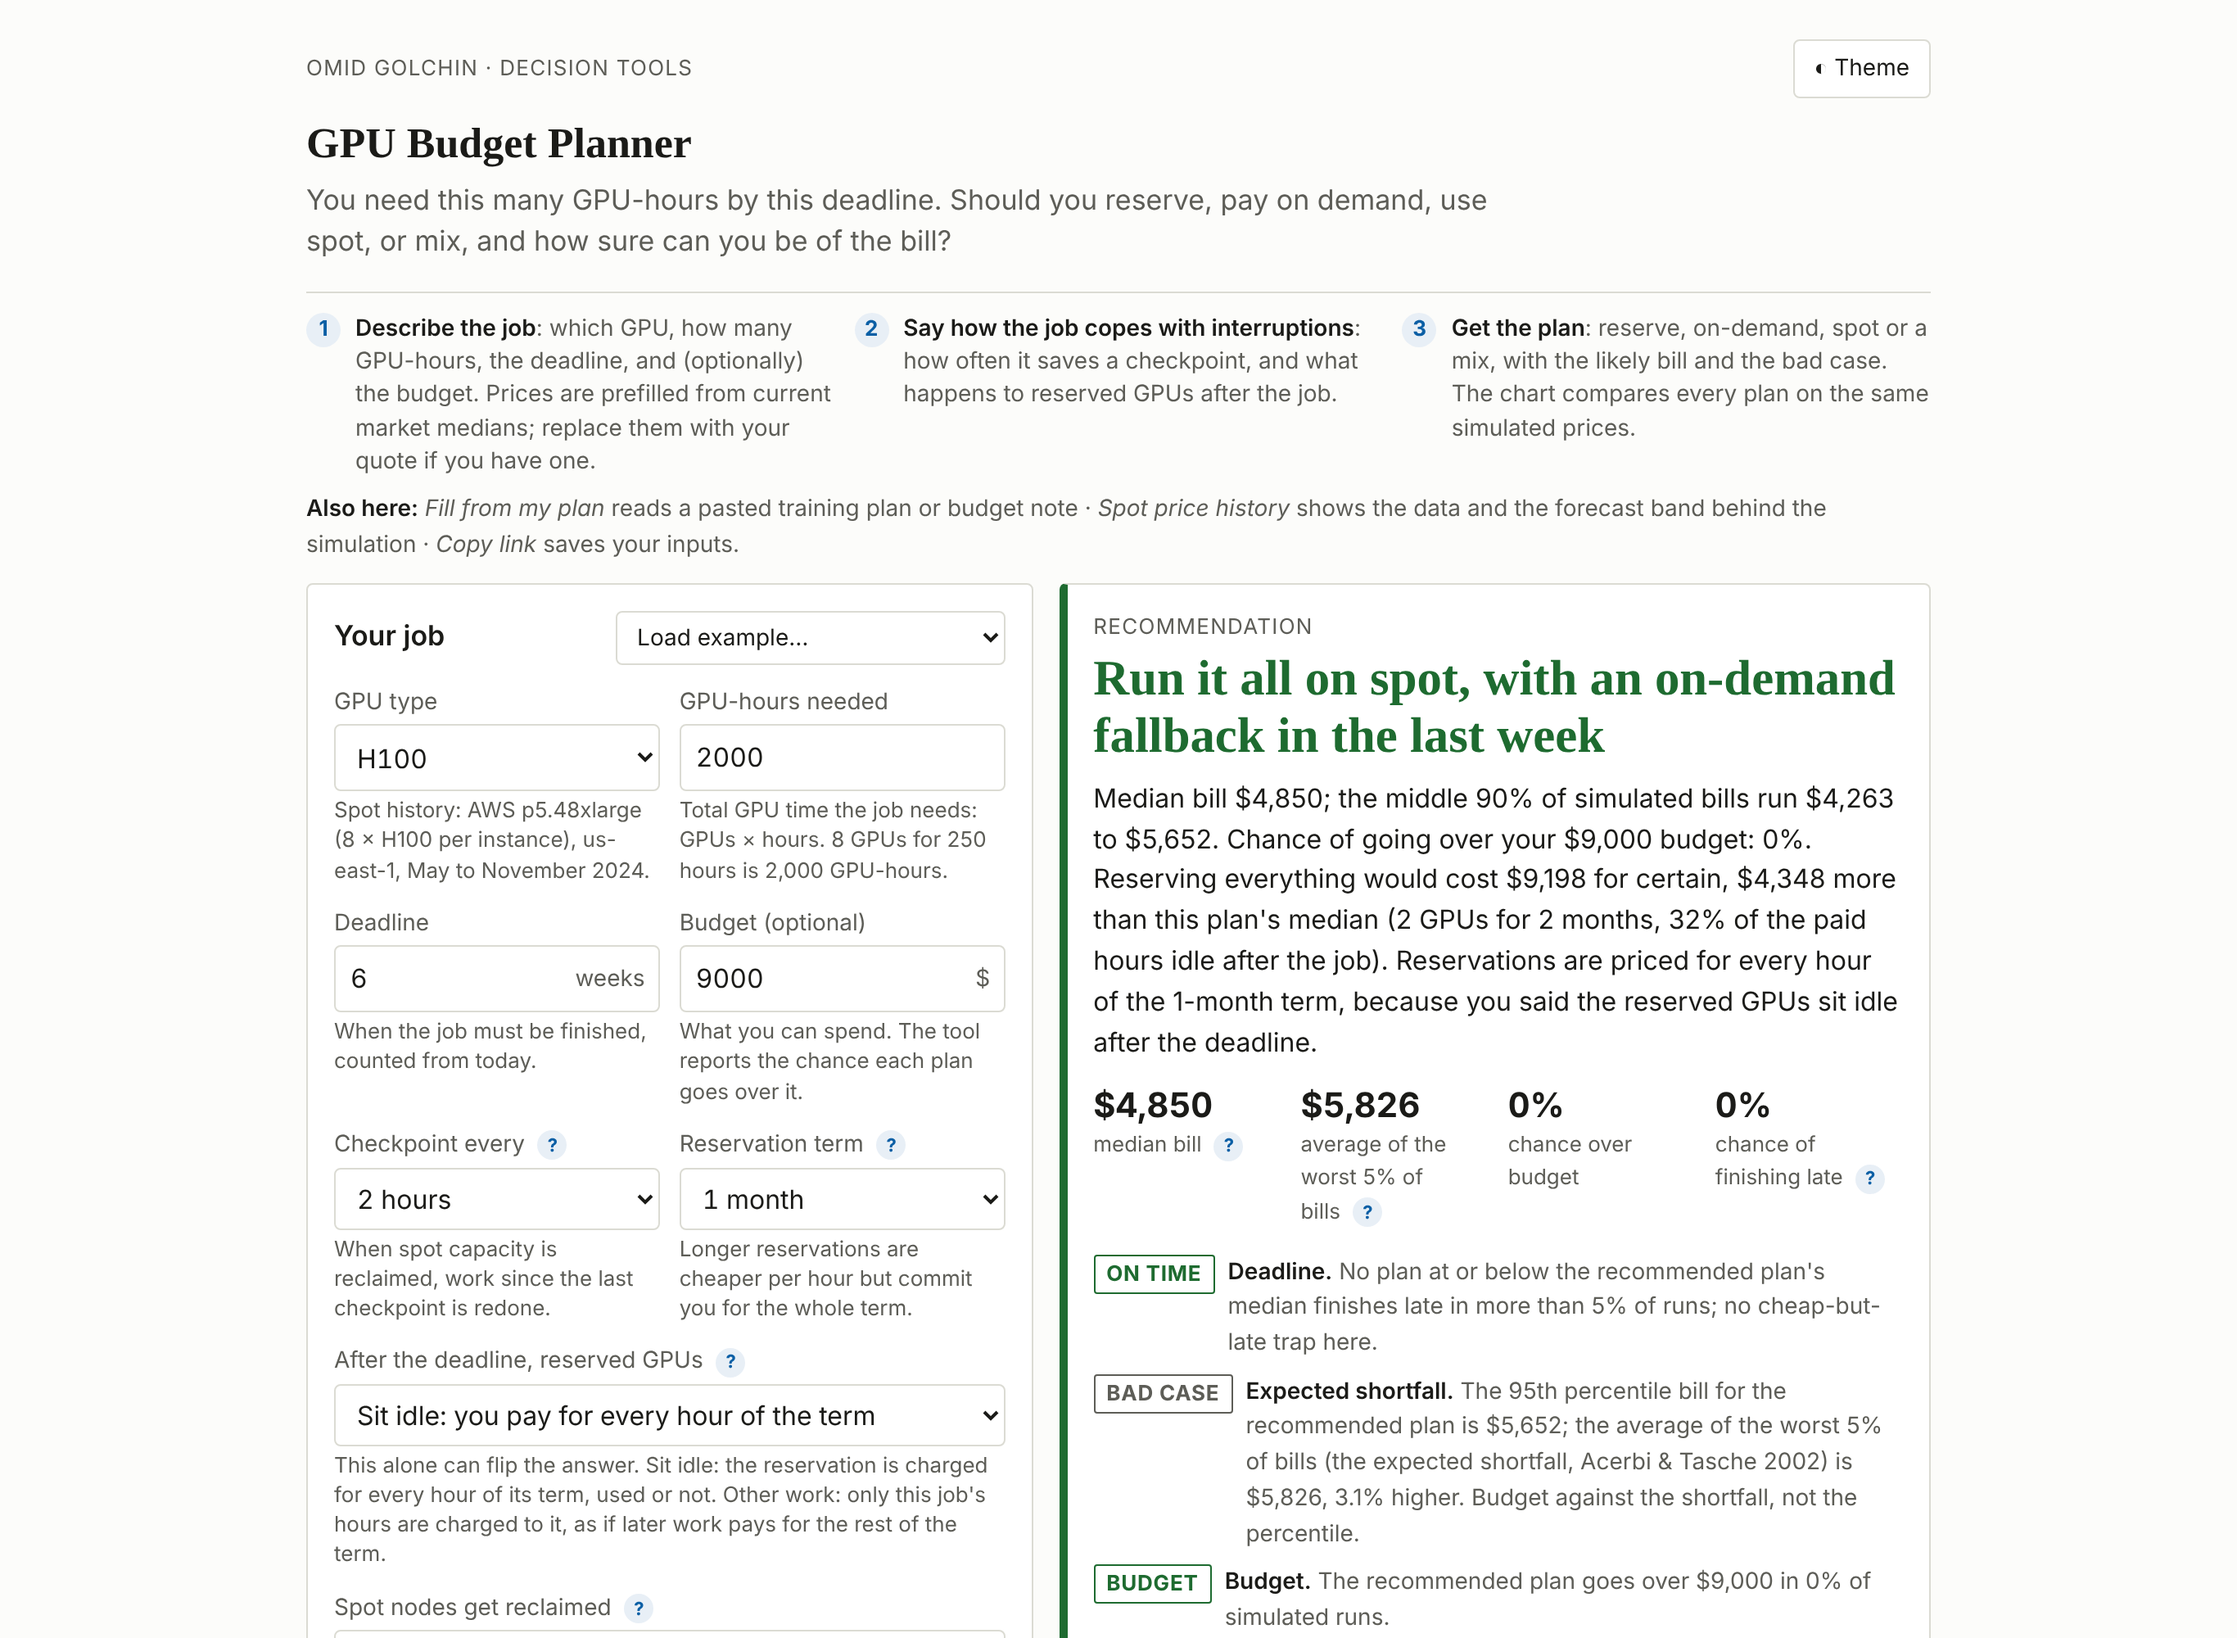
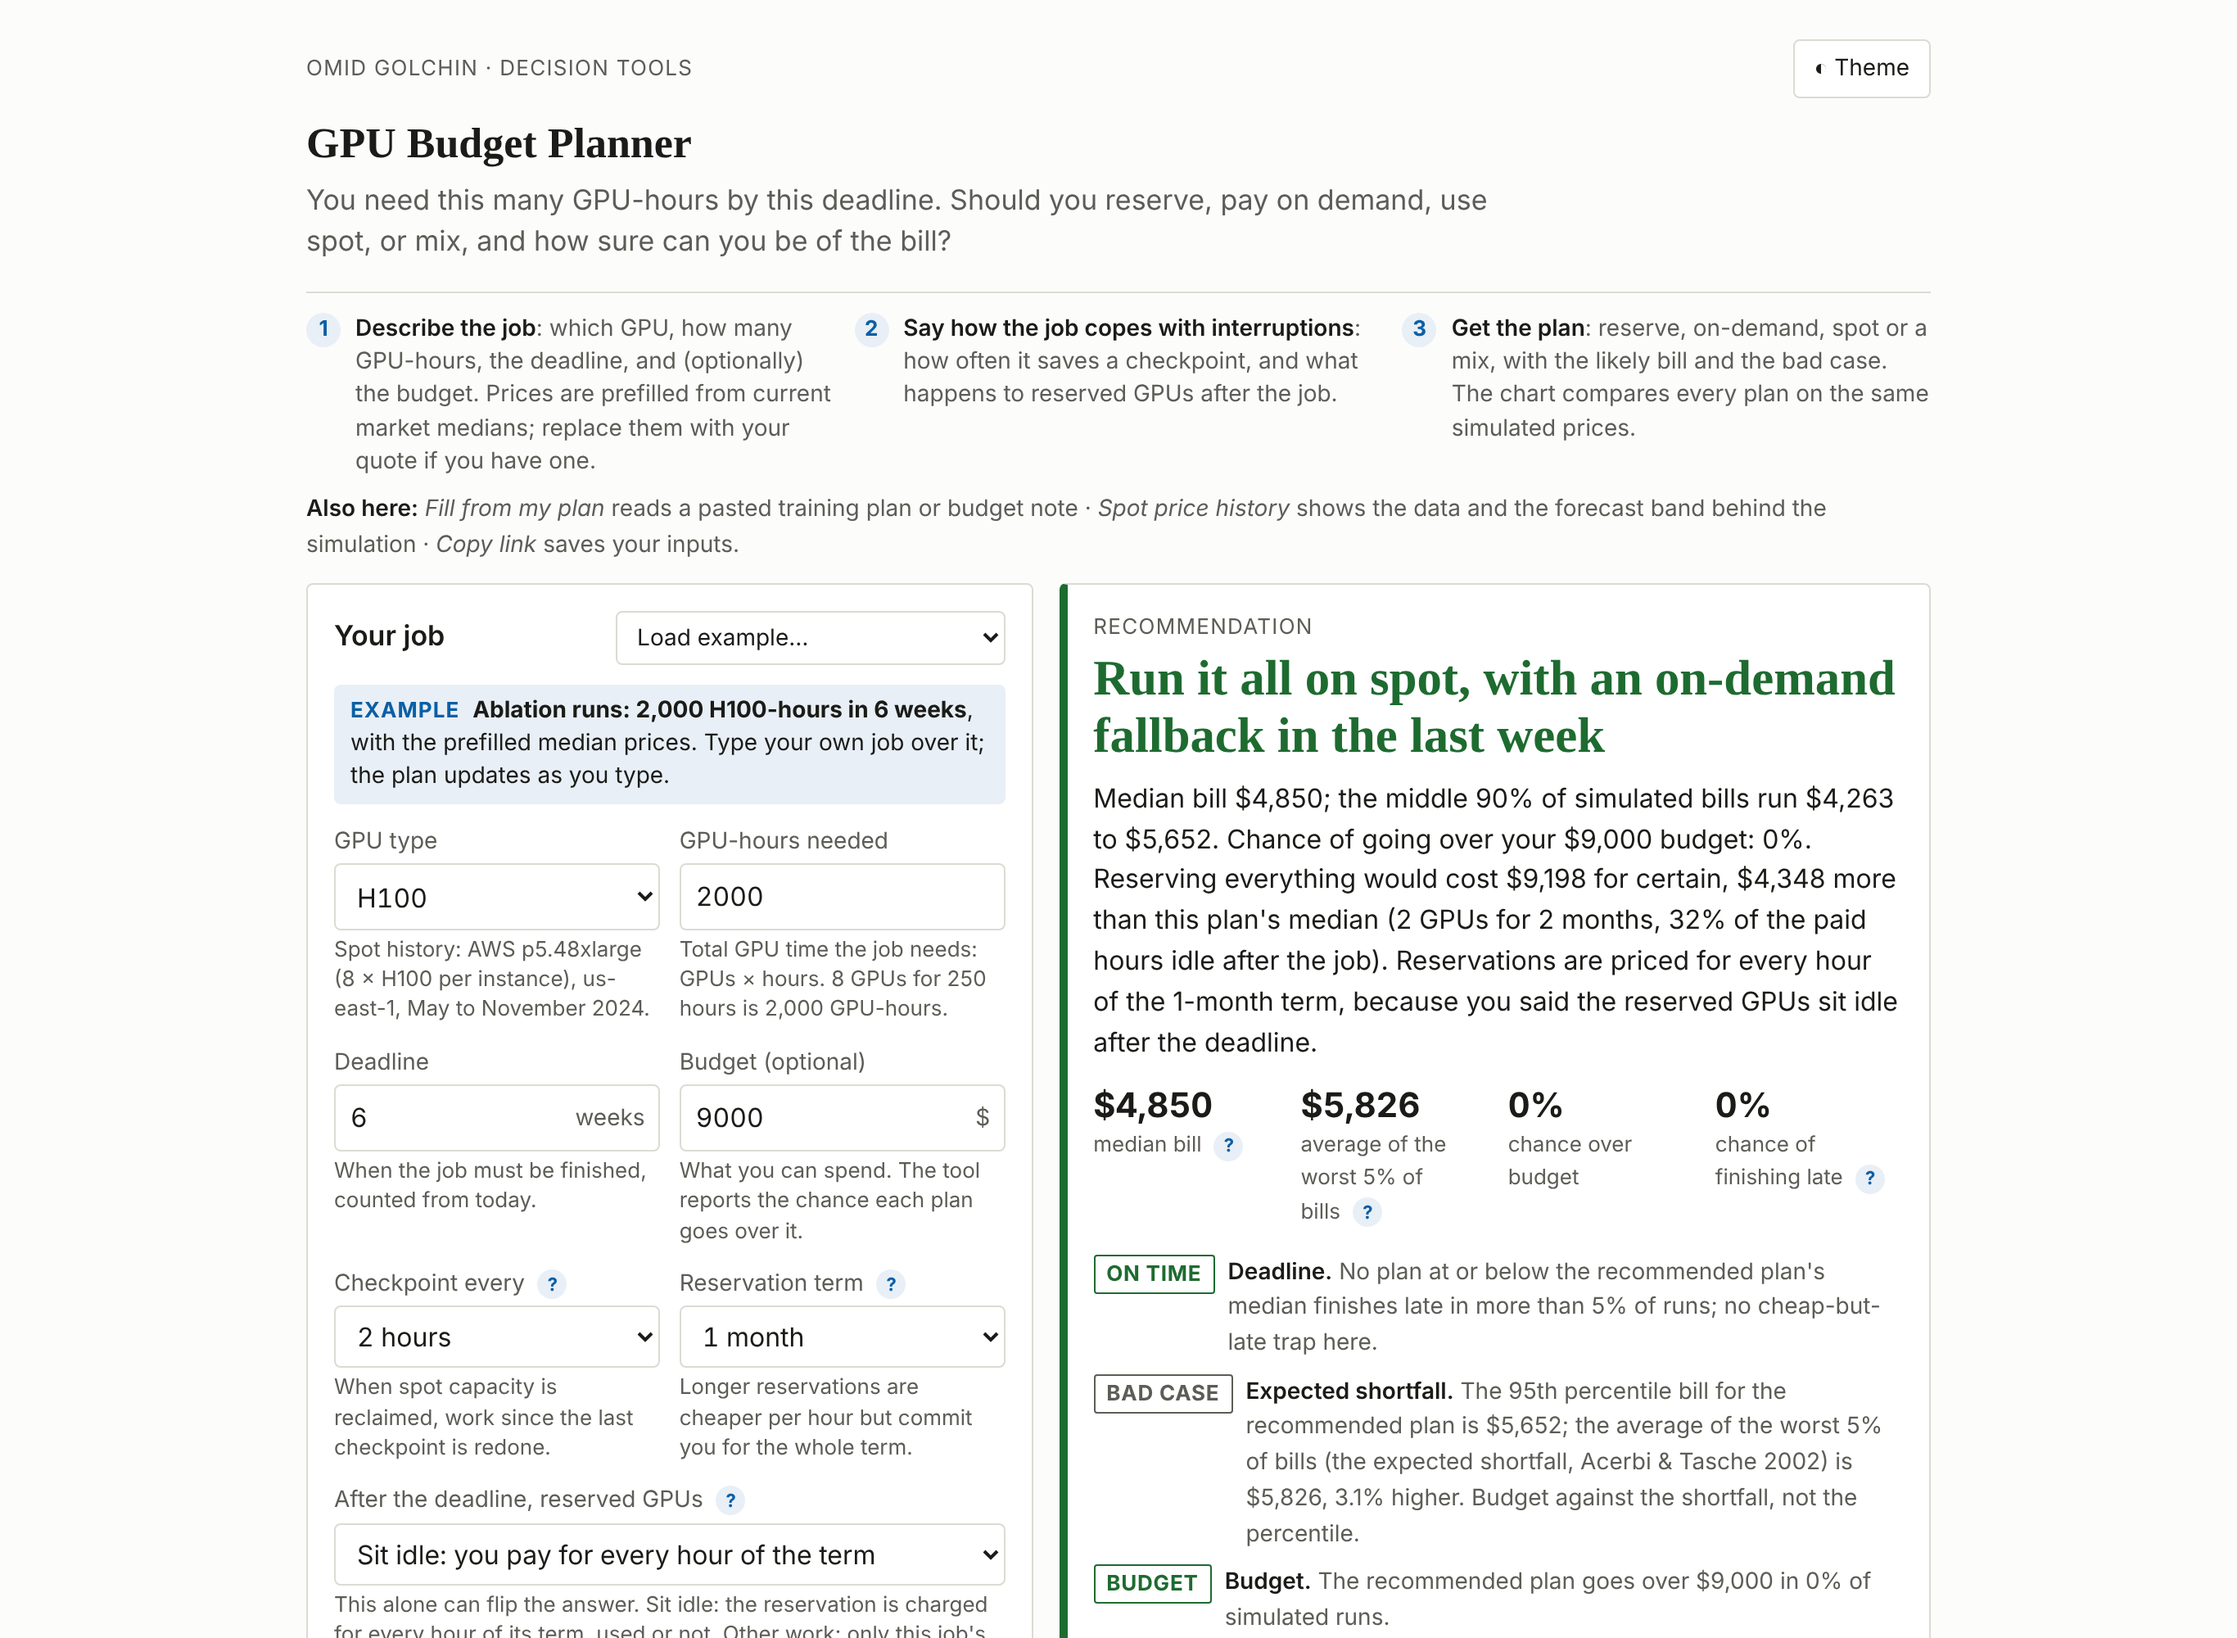
Keep form labels out of results, flag the reclaim guess where it matters
- The checkpoint check no longer copies "(default guess)" from the option label; when the default reclaim rate is in use it says so in its own sentence.
- The reclaim "?" card now says the default is a guess and how to test it.
- Example banner on the job form, hidden at the first edit or for a shared link.
- Input errors say what to enter.
- Kit: Tool.exampleWatch shows the example banner and hides it at the first real edit; the phone skip link is a 44px tap target; the shared tool list links the renamed llm-eval-error-bars.
- Hero GIF and screenshots regenerated from the updated page.

Changed region(s): [[0.1556, 0.403, 0.4356, 1.0]]

diff --git a/docs/app.js b/docs/app.js
@@ -75,10 +75,13 @@
     $("resHint").textContent = "Prefilled: median listing for the term above, same week. Changing the GPU or term refills both prices.";
     $("gdWeek").textContent = fmtDate(DATA.gdWeek);
   }
+  var q0 = new URLSearchParams(location.search);
+  if (!IDS.some(function (k) { return q0.has(k); })) Tool.exampleWatch($("f-job"), "<b>" + EXAMPLES[0].label + "</b>, with the prefilled median prices. Type your own job over it; the plan updates as you type.");
   EXAMPLES.forEach(function (ex, i) { var o = document.createElement("option"); o.value = i; o.textContent = ex.label; $("example").appendChild(o); });
   $("example").addEventListener("change", function () {
     if (this.value === "") return;
-    var v = EXAMPLES[+this.value].v; this.value = "";
+    var ex = EXAMPLES[+this.value], v = ex.v; this.value = "";
+    Tool.exampleWatch($("f-job"), "<b>" + ex.label + "</b>. Type your own job over it; the plan updates as you type.");
     document.querySelectorAll(".field.filled").forEach(function (f) { f.classList.remove("filled"); });
     $("gpu").value = v.gpu; $("term").value = v.term; fillPrices(true);
     $("hours").value = v.hours; $("weeks").value = v.weeks; $("budget").value = v.budget; $("ckpt").value = v.ckpt;
@@ -125,11 +128,11 @@
     };
     var ok = true;
     function need(id, cond, msg) { fieldError(id, cond ? "" : msg); if (!cond) ok = false; }
-    need("hours", v.hours > 0 && v.hours <= 1000000, "Between 1 and 1,000,000 GPU-hours.");
+    need("hours", v.hours > 0 && v.hours <= 1000000, "Enter the total GPU-hours, from 1 to 1,000,000.");
     need("weeks", v.weeks >= 1 && v.weeks <= 52 && Math.floor(v.weeks) === v.weeks, "A whole number of weeks, 1 to 52.");
-    need("budget", v.budget === null || v.budget > 0, "Above 0, or empty for no limit.");
-    need("onDemand", v.onDemand === null || (v.onDemand > 0 && v.onDemand <= 1000), "Above 0, or empty to use the prefill.");
-    need("reserved", v.reserved === null || (v.reserved > 0 && v.reserved <= 1000), "Above 0, or empty to use the prefill.");
+    need("budget", v.budget === null || v.budget > 0, "Enter a budget in dollars above 0, or leave it empty for no limit.");
+    need("onDemand", v.onDemand === null || (v.onDemand > 0 && v.onDemand <= 1000), "Enter a price per GPU-hour above 0 (up to $1,000), or leave it empty to use the prefilled price.");
+    need("reserved", v.reserved === null || (v.reserved > 0 && v.reserved <= 1000), "Enter a price per GPU-hour above 0 (up to $1,000), or leave it empty to use the prefilled price.");
     need("cap", v.cap === null || v.cap > 0, "Above 0, or empty for the on-demand price.");
     return ok ? v : null;
   }
@@ -238,7 +241,8 @@
     var gpus = v.hours / (v.weeks * 7 * 24), nodes = gpus / 8;
     var fleet = "Your job keeps about " + (gpus >= 10 ? F.int(gpus) : F.num(gpus, 1)) + " GPUs busy (" +
       (nodes < 1 ? "part of one 8-GPU node" : (nodes >= 10 ? F.int(nodes) : F.num(nodes, 1)) + " nodes of 8") + "). ";
-    var reclaimTxt = $("reclaim").selectedOptions[0].textContent.toLowerCase();
+    var reclaimTxt = $("reclaim").selectedOptions[0].textContent.replace(/\s*\(.*?\)\s*/g, "").toLowerCase();
+    var guessTxt = $("reclaim").value === DEFAULTS.reclaim ? " That reclaim rate is the tool's default guess, not a measurement: try once a day too and see whether the recommendation changes." : "";
     var lostW = W.lostHours, intsW = W.interruptions;
     var redone = intsW >= 0.05 ? " The recommended plan sees about " + F.num(intsW, intsW >= 10 ? 0 : 1) + " interruptions per run and redoes about " +
       F.int(lostW) + (Math.round(lostW) === 1 ? " GPU-hour" : " GPU-hours") + (lostW > 0 ? " (" + F.pct(lostW / v.hours, lostW / v.hours < 0.01 ? 1 : 0) + " of the job)" : "") + "." : "";
@@ -251,7 +255,7 @@
         " Hourly checkpoints would put this plan's median at " + F.money(byId(last.out1)[rec.id].median) + " instead of " + F.money(W.median) + "."]);
     } else if (v.reclaim > 0) {
       c.push(["ok", "CHECKPOINTS", "Checkpoint interval", fleet + "With nodes reclaimed " + reclaimTxt + ", a job this size loses little to interruptions at " + v.ckpt + "-hour checkpoints." + redone +
-        " The interval starts to matter as the fleet grows: every extra node is another way for the whole job to stop."]);
+        " The interval starts to matter as the fleet grows: every extra node is another way for the whole job to stop." + guessTxt]);
     } else {
       c.push(["info", "CHECKPOINTS", "Checkpoint interval", "Only price-cap interruptions are modeled, and spot prices rarely reach your cap. Spot nodes are reclaimed for capacity whatever the price, so set how often that happens to price it in."]);
     }
@@ -377,7 +381,7 @@
     ckpt: { t: "Checkpoints", d: "A checkpoint saves the training state so a stopped job can resume. Spot GPUs can be taken back at short notice; everything since the last checkpoint is lost and redone. Frequent checkpoints make spot cheaper in practice." },
     term: { t: "Reservation term", d: "Reserved capacity is bought for a fixed term at a discount. You pay for every hour of the term, used or not, so a long term only pays off if the GPUs stay busy." },
     after: { t: "Reserved GPUs after the deadline", d: "If the reservation outlasts the job, the remaining hours are either wasted (you still pay) or used by other work. Only count them as used if your team will really use them." },
-    reclaim: { t: "Spot reclaims", d: "How often the provider takes spot capacity back. Each reclaim costs the work since the last checkpoint plus restart time. The simulation draws reclaims at random at this rate (a Poisson process) for each node." },
+    reclaim: { t: "Spot reclaims", d: "How often the provider takes spot capacity back. Each reclaim costs the work since the last checkpoint plus restart time. The simulation draws reclaims at random at this rate (a Poisson process) for each node. The default, once a week per node, is a guess for when you have no logs: run once a day as well, and if the recommendation changes, the rate matters for your job. AWS's Spot Instance Advisor gives a past-month interruption band per instance type and region; your own logs beat any guess." },
     paths: { t: "Simulated price paths", d: "Future spot prices are unknown, so the tool builds many plausible price paths by resampling blocks of real price history (a block bootstrap) and prices every plan on each one." },
     lockstep: { t: "Lockstep training", d: "Distributed training where every node advances together, step by step. If one node is taken away, the whole job stops and resumes from the last checkpoint, so one reclaim costs everyone's work since then, not just that node's." },
     block: { t: "Bootstrap block length", d: "The simulation builds future spot prices by stitching together random stretches of real price history. This sets how long each stretch is. Longer stretches keep price runs (a week of high prices) intact; 28 days predicted held-out months best." },

diff --git a/docs/tool-common.js b/docs/tool-common.js
@@ -10,6 +10,7 @@
  *   Tool.siblings(currentRepo)     the "More tools" footer line, from one shared list
  *   Tool.tabs(tablist)             arrow-key support for a mode switch
  *   Tool.exampleBanner(form, text) marks prefilled example content where it sits
+ *   Tool.exampleWatch(form, text)  same, and hides it at the visitor's first edit
  *
  * No dependencies. Works from file:// and on GitHub Pages.
  */
@@ -497,7 +498,7 @@
     ["bayesian-ab-lab", "A/B Test Decision Tool"],
     ["queue-simulator", "Call Center Staffing Planner"],
     ["experiment-hazard-simulator", "Agent Eval Planner"],
-    ["llm-eval-error-bar", "Error Bars for LLM Evals"],
+    ["llm-eval-error-bars", "Error Bars for LLM Evals"],
     ["ordering-policy-tester", "Ordering Policy Tester"],
     ["order-quantity-planner", "Order Quantity Planner"],
     ["production-line-simulator", "Production Line Bottleneck Finder"],
@@ -549,6 +550,23 @@
     b.hidden = false;
     b.innerHTML = '<span class="ex-tag">Example</span> ' + text;
   }
+  // Show the banner now and hide it at the visitor's first real edit of the form.
+  // Programmatic fills (examples, URL state) do not fire trusted events, and the
+  // example menu itself (.example) is ignored, so loading another example keeps it.
+  function exampleWatch(form, text) {
+    if (!form) return;
+    exampleBanner(form, text);
+    if (form._exWatch) return;
+    form._exWatch = true;
+    var off = function (e) {
+      if (!e.isTrusted) return;
+      var t = e.target;
+      if (t && t.classList && (t.classList.contains("example") || t.closest(".ex-keep"))) return;
+      exampleBanner(form, null);
+    };
+    form.addEventListener("input", off);
+    form.addEventListener("change", off);
+  }
   // On narrow screens the inputs come first; give a way straight to the result.
   function jumpLinks() {
     document.querySelectorAll(".work").forEach(function (w, i) {
@@ -571,7 +589,7 @@
     });
   }
 
-  var api = { explain: explain, alignFields: alignFields, exampleBanner: exampleBanner, jumpLinks: jumpLinks, closeTip: closeTip, siblings: siblings, tabs: tabs, TOOLS: TOOLS, readParams: readParams, writeParams: writeParams, copy: copy, fmt: fmt, lineChart: lineChart, niceTicks: niceTicks, assist: assist, _buildPrompt: buildPrompt, _parseReply: parseReply, _quoteFound: quoteFound, _coerce: coerce };
+  var api = { explain: explain, alignFields: alignFields, exampleBanner: exampleBanner, exampleWatch: exampleWatch, jumpLinks: jumpLinks, closeTip: closeTip, siblings: siblings, tabs: tabs, TOOLS: TOOLS, readParams: readParams, writeParams: writeParams, copy: copy, fmt: fmt, lineChart: lineChart, niceTicks: niceTicks, assist: assist, _buildPrompt: buildPrompt, _parseReply: parseReply, _quoteFound: quoteFound, _coerce: coerce };
   if (typeof module !== "undefined" && module.exports) module.exports = api;
   if (typeof window !== "undefined") window.Tool = api;
 })();

diff --git a/docs/tool.css b/docs/tool.css
@@ -141,4 +141,5 @@ select.example { font-size: var(--fs-small); }
 .ex-banner { margin: 0 0 var(--sp-3); padding: 6px 10px; border-radius: var(--radius); background: var(--accent-soft); color: var(--fg); font-size: var(--fs-small); line-height: 1.45; }
 .ex-banner .ex-tag { display: inline-block; font-size: var(--fs-caption); font-weight: 700; letter-spacing: .04em; text-transform: uppercase; color: var(--accent); margin-right: 4px; }
 .jump { display: none; }
-@media (max-width: 820px) { .jump { display: inline-block; margin: 0 0 var(--sp-3); font-size: var(--fs-small); font-weight: 600; } }
+@media (max-width: 820px) { .jump { display: inline-flex; align-items: center; min-height: 44px; margin: 0 0 var(--sp-2); font-size: var(--fs-small); font-weight: 600; } }
+.ctl-grid .ctl-hint { display: block; margin-top: 4px; font-weight: 400; }

diff --git a/docs/index.html b/docs/index.html
@@ -37,7 +37,7 @@
   </div>
 
   <div class="work">
-    <form class="panel" novalidate onsubmit="return false">
+    <form class="panel" id="f-job" novalidate onsubmit="return false">
       <div class="panel-head">
         <h2>Your job</h2>
         <select class="example" id="example" aria-label="Load an example"><option value="">Load example…</option></select>
